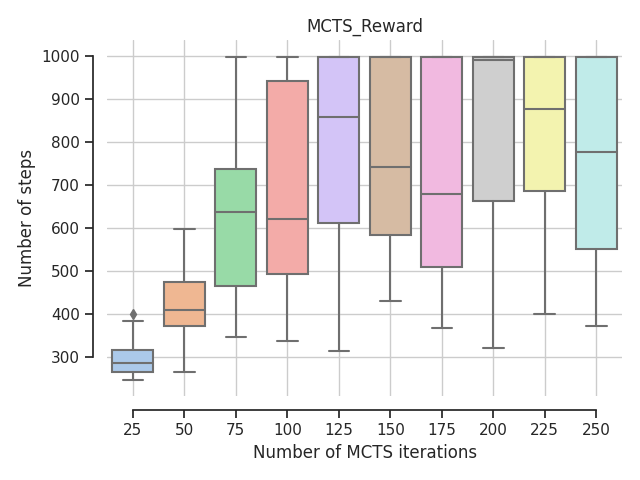
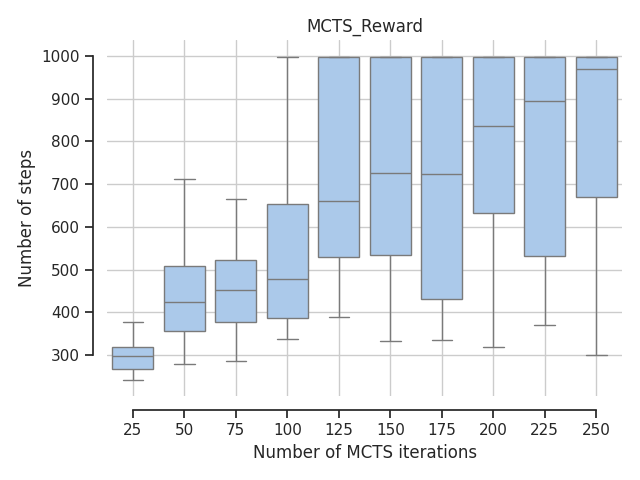
fix backpropagation + run

diff --git a/MCTS_Reward.py b/MCTS_Reward.py
@@ -1,5 +1,6 @@
 import numpy as np
 import copy
+import gym
 
 c = 2
 
@@ -115,7 +116,7 @@ class MCTS_Reward:
                       
             action = node.env.action_space.sample()
 
-            next_state, reward, done , _, _ = env.step(action)
+            next_state, reward, done, _, _  = env.step(action)
 
             reward_list.append(reward)
 
@@ -137,11 +138,11 @@ class MCTS_Reward:
             
             current.n += 1
             
+            G = current.reward + self.gamma * G
+
             current.w = current.w + G
             current.q = current.w / current.n
 
-            G = current.reward + self.gamma * G
-            
             current = current.parent
 
          

diff --git a/RunMCTS.py b/RunMCTS.py
@@ -1,4 +1,4 @@
-import gym
+import gymnasium
 import numpy as np
 import tqdm
 import argparse
@@ -15,7 +15,7 @@ filterwarnings(action='ignore', category=DeprecationWarning, message='`np.bool8`
 
 def process_runMCTS(num_procs, process_id, seed, mcts_mode, num_mcts_iterations, num_steps_shm):
     
-    env = gym.make("CartPole-v1")
+    env = gymnasium.make("CartPole-v1")
     env.reset(seed=seed)
 
     num_steps_mem = np.ndarray(shape=(num_procs, ), dtype=np.uint16, buffer=num_steps_shm.buf)
